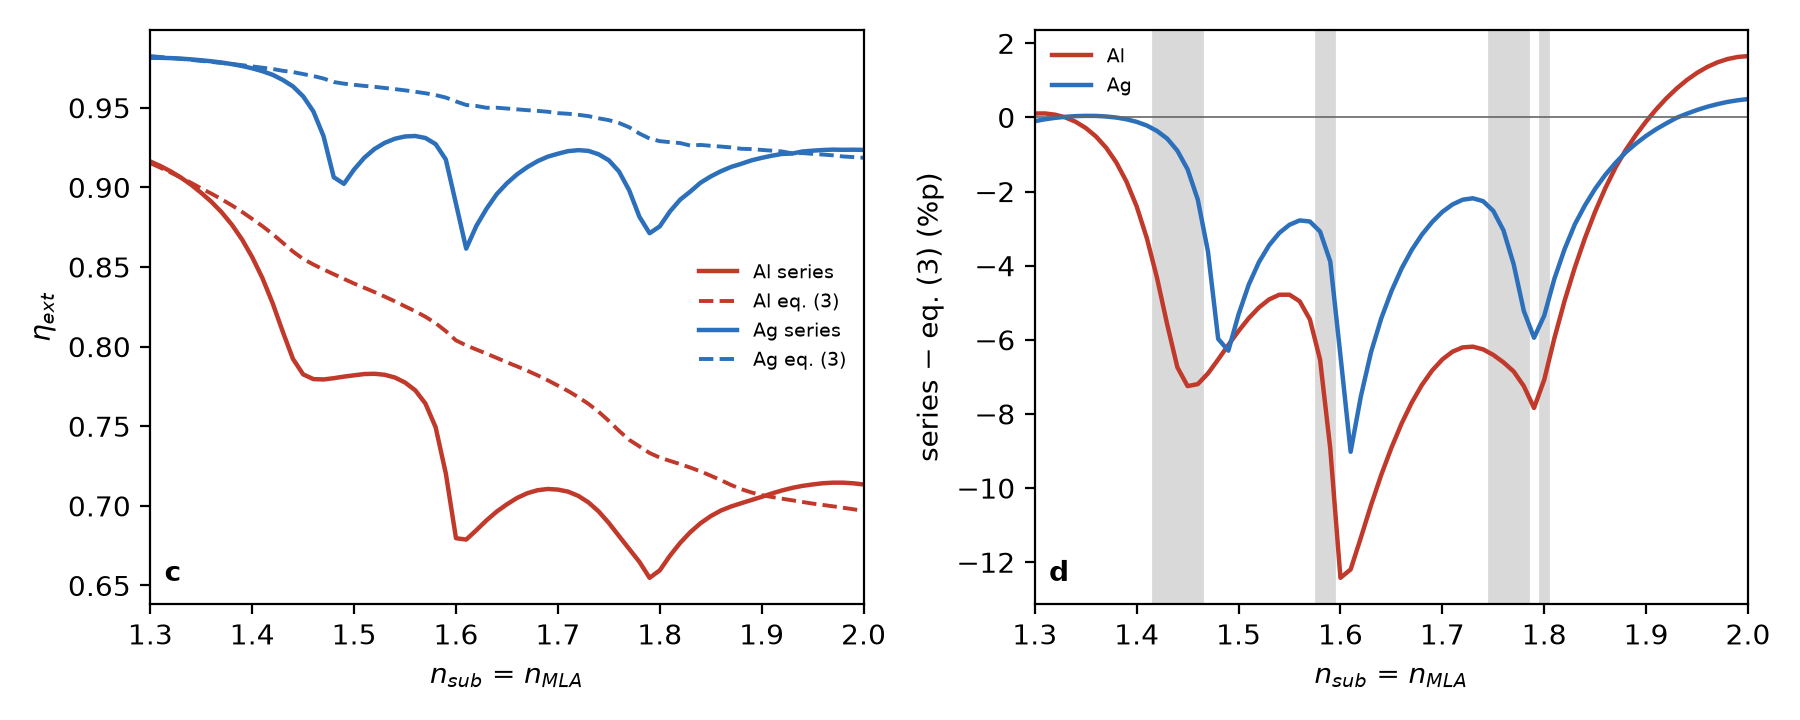
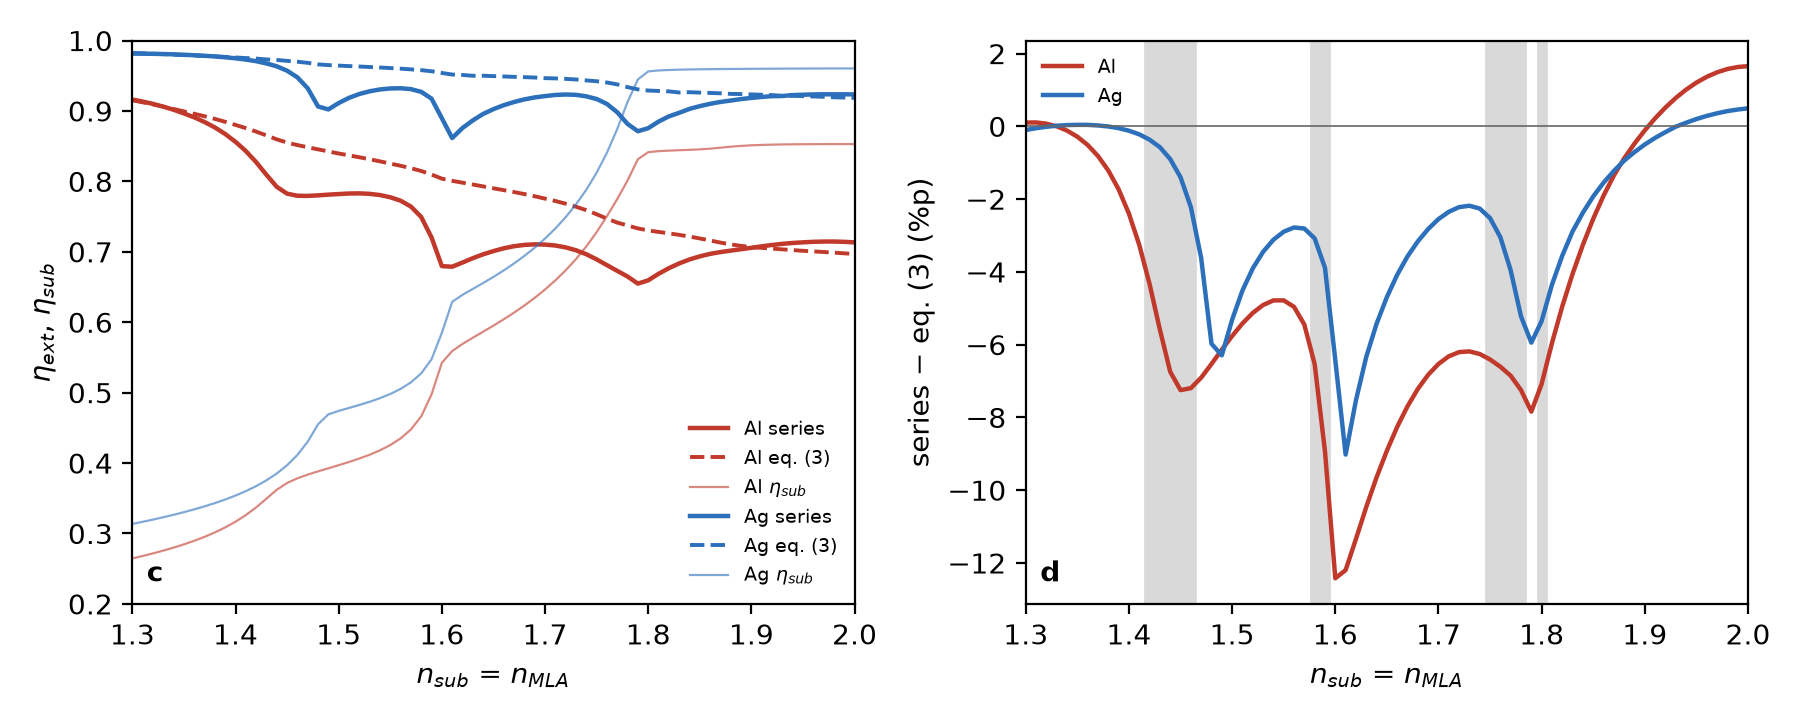
Add eta_sub, EQE and spectral-average checks to series vs eq. (3) raw data
Claude-Session: https://claude.ai/code/session_01Dpyv6uQaiqNNFK2eUPJ4BU

diff --git a/figures/fig2e_series_vs_eq3/make_rawdata.py b/figures/fig2e_series_vs_eq3/make_rawdata.py
@@ -14,7 +14,7 @@ import matplotlib.pyplot as plt
 HERE = os.path.dirname(os.path.abspath(__file__))
 ROOT = os.path.abspath(os.path.join(HERE, '..', '..'))
 rows = list(csv.DictReader(open(os.path.join(ROOT, 'sim/audit/fig2def_fine.csv'))))
-D = {R: sorted(((float(r['n_sub']), float(r['eta_ext_series']), float(r['eta_ext_closed']))
+D = {R: sorted(((float(r['n_sub']), float(r['eta_ext_series']), float(r['eta_ext_closed']), float(r['eta_sub']), float(r['EQE_series']), float(r['EQE_closed']))
                 for r in rows if r['reflector'] == R)) for R in ('Al', 'Ag')}
 n = [x[0] for x in D['Al']]
 CUTOFF = {'Ag': [1.46, 1.59, 1.76, 1.78], 'Al': [1.42, 1.58, 1.75, 1.78]}
@@ -29,7 +29,7 @@ for line in [
     'Series: eta_ext = Psub (I - B_R R)^-1 B_T^T with the device angular distribution Psub(theta).',
     'Eq. (3): eta_ext = p / (p + (1 - p) A\'), p = cos(theta)sin(theta)-weighted B_T, A\' = cos(theta)sin(theta)-weighted (1 - R_LED).',
     'Eq. (3) values are identical to main-text Fig. 2e (figure_update_rawdata.xlsx, sheet Fig2e).',
-    'Sheet c: panel (c), solid = series, dashed = eq. (3).  Sheet d: panel (d), difference series - eq. (3) in percentage points.',
+    'Sheet c: panel (c), solid = series, dashed = eq. (3), thin = eta_sub. Sheet EQE_check: EQE = eta_sub x eta_ext rises monotonically (no dips).  Sheet d: panel (d), difference series - eq. (3) in percentage points.',
     'Sheet cutoffs: substrate indices at which a waveguided mode reaches cut-off (n_eff = n_sub) at 550 nm; grey bands in panel (d).',
     'Source data: sim/audit/fig2def_fine.csv. Script: figures/fig2e_series_vs_eq3/make_rawdata.py',
 ]:
@@ -37,13 +37,23 @@ for line in [
 ws.column_dimensions['A'].width = 140
 
 c = wb.create_sheet('c_eta_ext')
-c.append(['n_sub (= n_MLA)', 'Al series', 'Al eq. (3)', 'Ag series', 'Ag eq. (3)'])
+c.append(['n_sub (= n_MLA)', 'Al eta_ext series', 'Al eta_ext eq. (3)', 'Ag eta_ext series', 'Ag eta_ext eq. (3)', 'Al eta_sub', 'Ag eta_sub'])
 for i, x in enumerate(n):
-    c.append([x, D['Al'][i][1], D['Al'][i][2], D['Ag'][i][1], D['Ag'][i][2]])
+    c.append([x, D['Al'][i][1], D['Al'][i][2], D['Ag'][i][1], D['Ag'][i][2], D['Al'][i][3], D['Ag'][i][3]])
+q = wb.create_sheet('EQE_check')
+q.append(['n_sub (= n_MLA)', 'Al EQE series', 'Al EQE eq. (3)', 'Ag EQE series', 'Ag EQE eq. (3)', 'Al dEQE_series/dn step', 'Ag dEQE_series/dn step'])
+for i, x in enumerate(n):
+    st = [round(D[R][i][4] - D[R][i-1][4], 5) if i else None for R in ('Al', 'Ag')]
+    q.append([x, D['Al'][i][4], D['Al'][i][5], D['Ag'][i][4], D['Ag'][i][5]] + st)
+sp = wb.create_sheet('spectral_avg_check')
+sp.append(['reflector', 'n_sub', 'eta_ext series 550 nm', 'eta_ext series Gaussian FWHM 70 nm', 'eta_ext series uniform 490-610 nm', 'EQE series 550 nm', 'EQE series Gaussian 70 nm'])
+for r in csv.DictReader(open(os.path.join(ROOT, 'sim/audit/fig2def_specavg.csv'))):
+    sp.append([r['reflector'], float(r['n_sub'])] + [float(r[k]) for k in ('eta_ext_mono550', 'eta_ext_gauss70', 'eta_ext_uniform', 'EQE_mono550', 'EQE_gauss70')])
+sp.append([]); sp.append(['Note: layer optical constants are wavelength-independent in this check, so the cut-off at n_sub = n_org = 1.8 does not move with wavelength.'])
 
 d = wb.create_sheet('d_difference')
 d.append(['n_sub (= n_MLA)', 'Al: series - eq.(3) (%p)', 'Ag: series - eq.(3) (%p)'])
-diff = {R: [100 * (s - e) for _, s, e in D[R]] for R in D}
+diff = {R: [100 * (x[1] - x[2]) for x in D[R]] for R in D}
 for i, x in enumerate(n):
     d.append([x, round(diff['Al'][i], 3), round(diff['Ag'][i], 3)])
 
@@ -80,10 +90,11 @@ for R in ('Al', 'Ag'):
     ax[0].plot(n, [x[1] for x in D[R]], color=col[R], lw=1.6, label=f'{R} series')
     ax[0].plot(n, [x[2] for x in D[R]], color=col[R], lw=1.4, ls='--', label=f'{R} eq. (3)')
     ax[1].plot(n, diff[R], color=col[R], lw=1.6, label=R)
+    ax[0].plot(n, [x[3] for x in D[R]], color=col[R], lw=0.8, alpha=0.6, label=rf'{R} $\eta_{{sub}}$')
 for a, b in BANDS:
     ax[1].axvspan(a - 0.004, b + 0.004, color='0.85', zorder=0)
 ax[1].axhline(0, color='0.4', lw=0.6)
-ax[0].set(xlabel='$n_{sub}$ = $n_{MLA}$', ylabel=r'$\eta_{ext}$', xlim=(1.3, 2.0)); ax[0].legend(fontsize=7, frameon=False)
+ax[0].set(xlabel='$n_{sub}$ = $n_{MLA}$', ylabel=r'$\eta_{ext}$, $\eta_{sub}$', xlim=(1.3, 2.0), ylim=(0.2, 1.0)); ax[0].legend(fontsize=7, frameon=False)
 ax[1].set(xlabel='$n_{sub}$ = $n_{MLA}$', ylabel=r'series $-$ eq. (3) (%p)', xlim=(1.3, 2.0)); ax[1].legend(fontsize=7, frameon=False)
 ax[0].text(0.02, 0.04, 'c', transform=ax[0].transAxes, weight='bold'); ax[1].text(0.02, 0.04, 'd', transform=ax[1].transAxes, weight='bold')
 fig.tight_layout(); fig.savefig(os.path.join(HERE, 'fig2e_series_vs_eq3_preview.png'), dpi=200)
